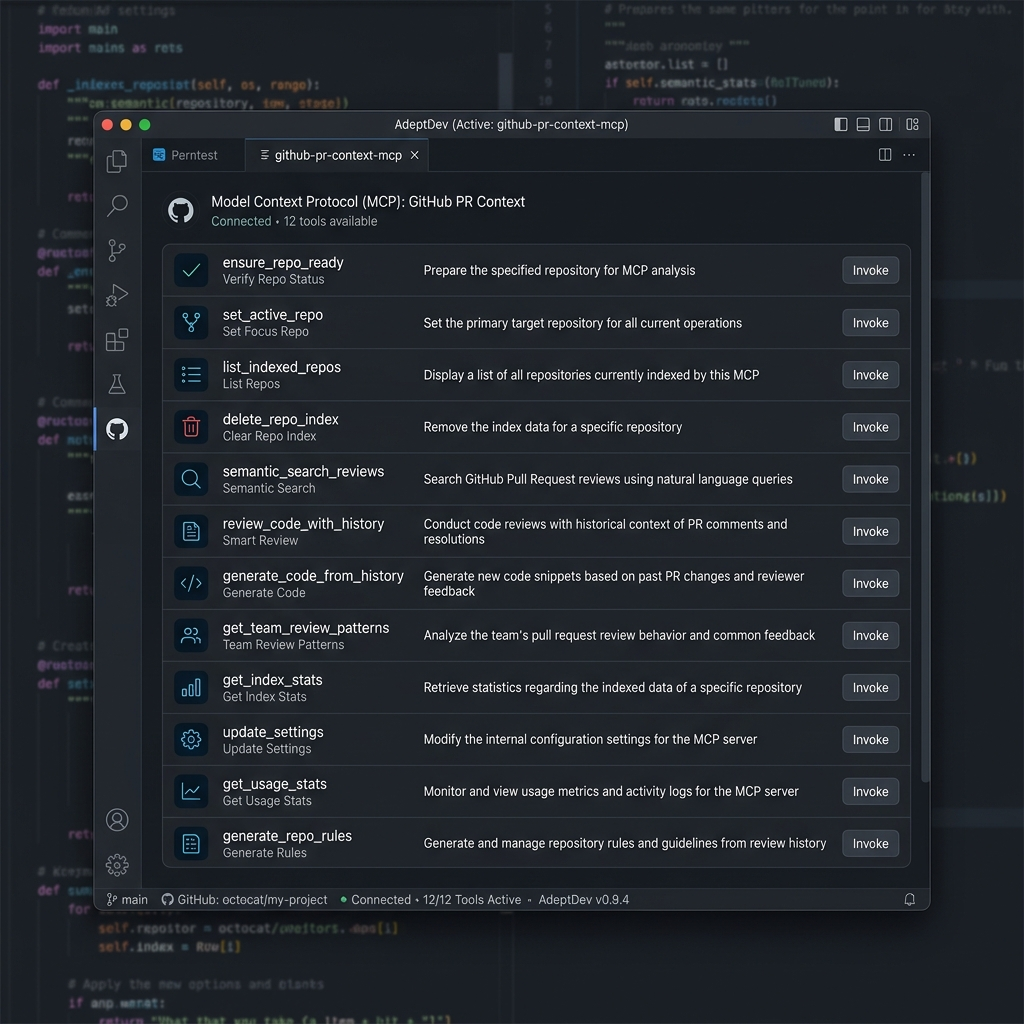
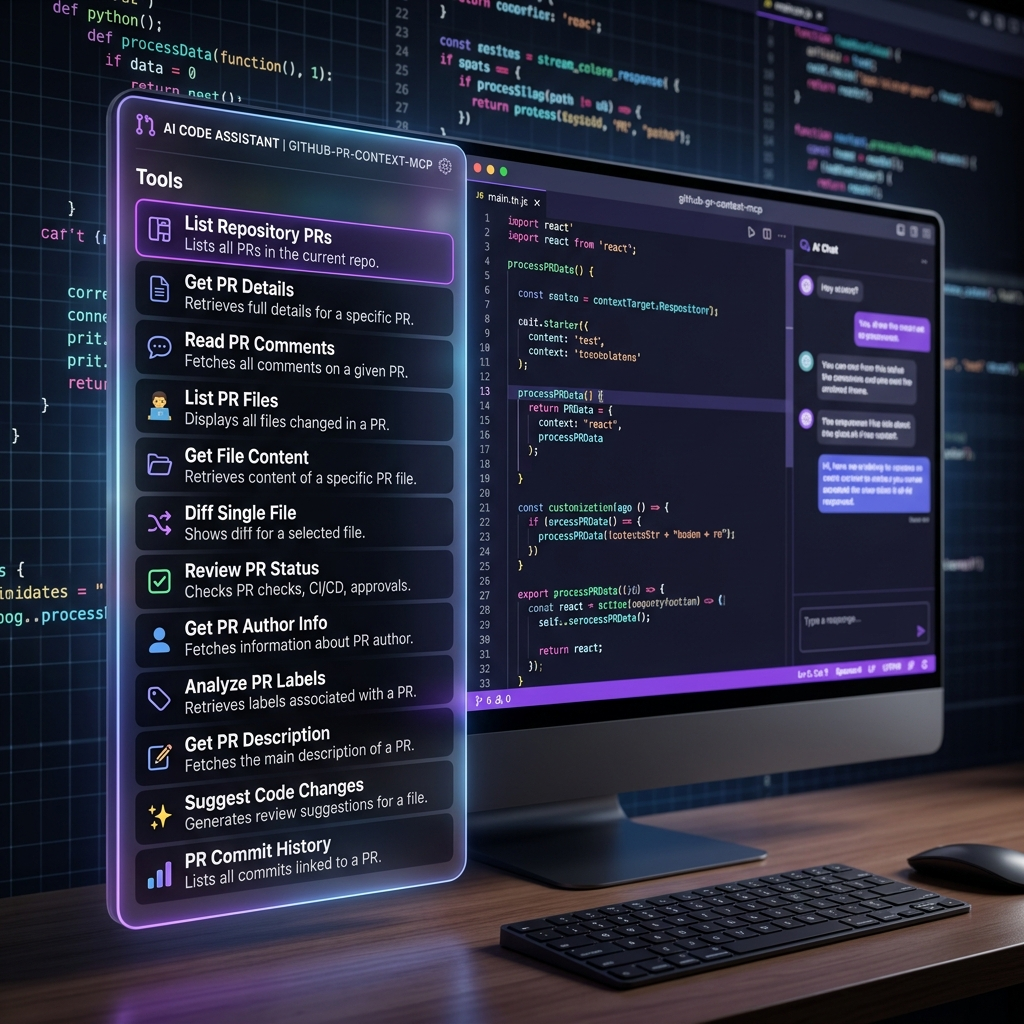
feat: add premium tools mockup v2 and comprehensive agent instructions for all major IDEs

diff --git a/CLAUDE.md b/CLAUDE.md
@@ -1,0 +1,29 @@
+# Claude Code / Claude Desktop Instructions
+
+This repository is optimized for use with the `github-pr-context-mcp` server. Use the available tools to ground your responses in real repository history.
+
+## 📋 Recommended Workflow
+
+- **Check State**: Call `list_indexed_repos` to see what's already indexed.
+- **Activate**: Use `ensure_repo_ready(repo="paarths-collab/github-pr-context-mcp")` to start.
+- **Contextualize**: For any coding task, search history first: `semantic_search_reviews(query="your task details")`.
+- **Align**: Use `get_team_review_patterns` to understand specific team preferences (e.g., error handling, logging).
+
+## 🧰 Full Tool Inventory
+
+| Tool | Action |
+|---|---|
+| `ensure_repo_ready` | Index a repository and ensure it is ready for queries |
+| `set_active_repo` | Switch between multiple indexed repositories |
+| `list_indexed_repos` | View all repos currently in local/temporary storage |
+| `delete_repo_index` | Free up disk space by clearing repository indices |
+| `semantic_search_reviews` | Search past review comments by meaning, not just keywords |
+| `review_code_with_history` | AI review grounded in team review memory |
+| `generate_code_from_history`| Write code grounded in past commits & team style |
+| `get_team_review_patterns` | Summarize recurring team standards |
+| `get_index_stats` | Verify if a repo index is complete (doc count) |
+| `generate_repo_rules` | **Synthesize/update these instructions from history** |
+| `update_settings` | Update tokens/LLM keys (Hosted mode only) |
+| `get_usage_stats` | View adoption metrics and unique user counts |
+
+Ground every decision in evidence from past PRs.

diff --git a/.github/copilot-instructions.md b/.github/copilot-instructions.md
@@ -1,0 +1,25 @@
+# GitHub Copilot Instructions
+
+When assisting in this repository, leverage the `github-pr-context-mcp` extension to provide context-aware suggestions.
+
+## 🚀 Workflow
+
+1.  **Index**: Ensure the repo is ready with `ensure_repo_ready`.
+2.  **Search**: Use `semantic_search_reviews` to find implementation patterns in past PRs.
+3.  **Validate**: Use `review_code_with_history` to verify new code against historical feedback.
+
+## 🛠 Complete Toolset
+- `ensure_repo_ready`: Prepare the context for a repository.
+- `set_active_repo`: Switch the active repository.
+- `list_indexed_repos`: List all indexed repositories.
+- `delete_repo_index`: Delete a repository index.
+- `semantic_search_reviews`: Deep historical search by meaning.
+- `review_code_with_history`: Grounded AI review.
+- `generate_code_from_history`: Generate code matching team style.
+- `get_team_review_patterns`: Understand recurring team standards.
+- `get_index_stats`: Check the status of a repository index.
+- `generate_repo_rules`: **Synthesize/update these instructions.**
+- `update_settings`: Configure your settings (Hosted).
+- `get_usage_stats`: View analytics and usage stats.
+
+Always favor patterns found in the repository's own history.
